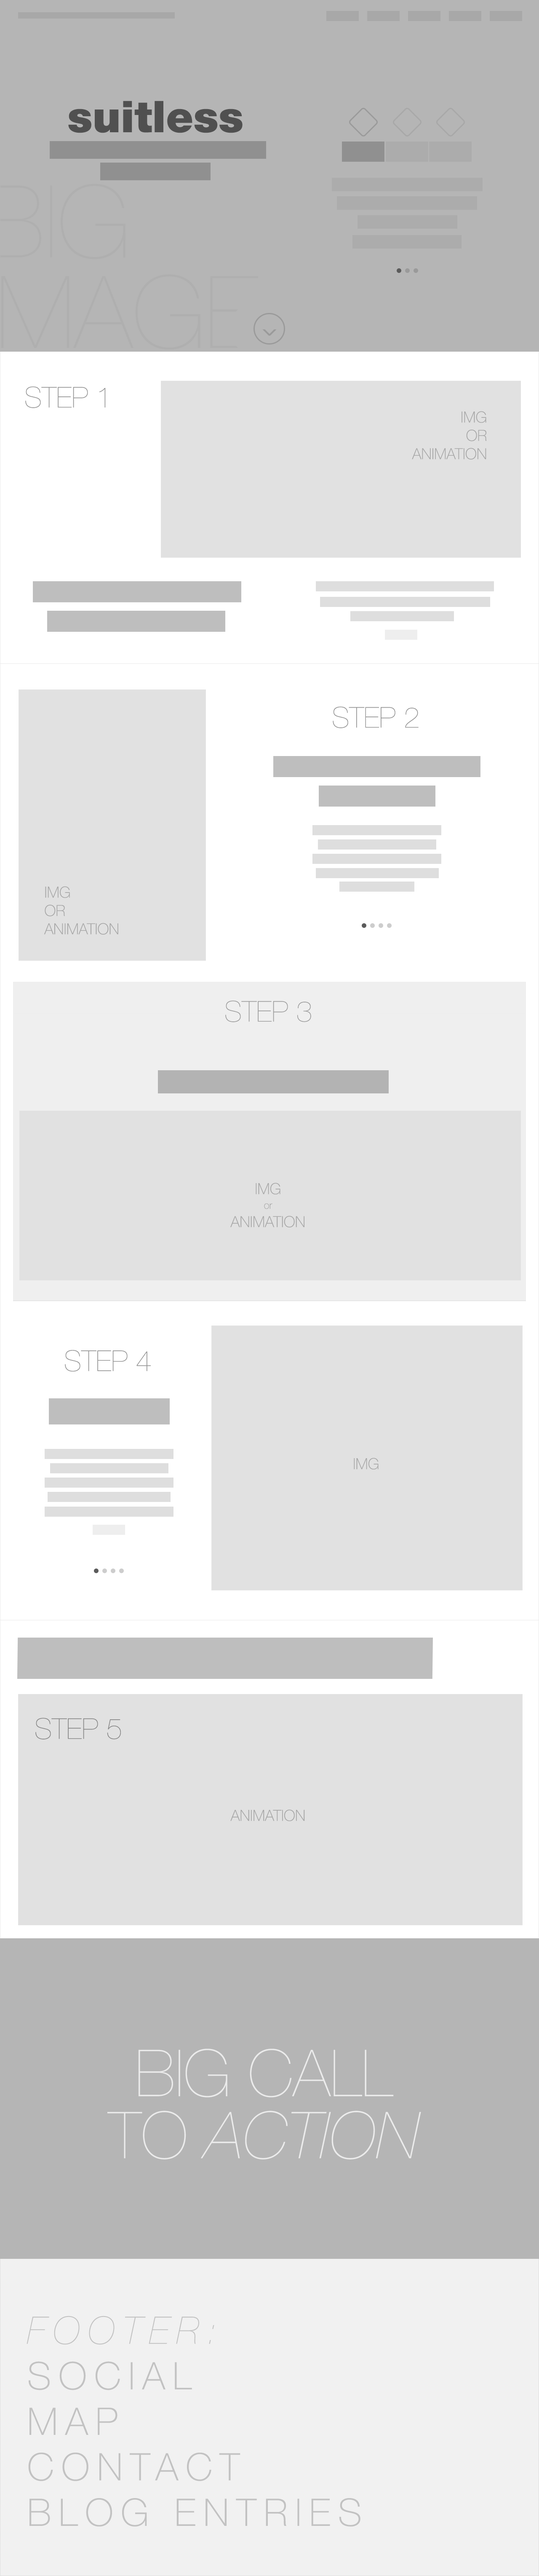
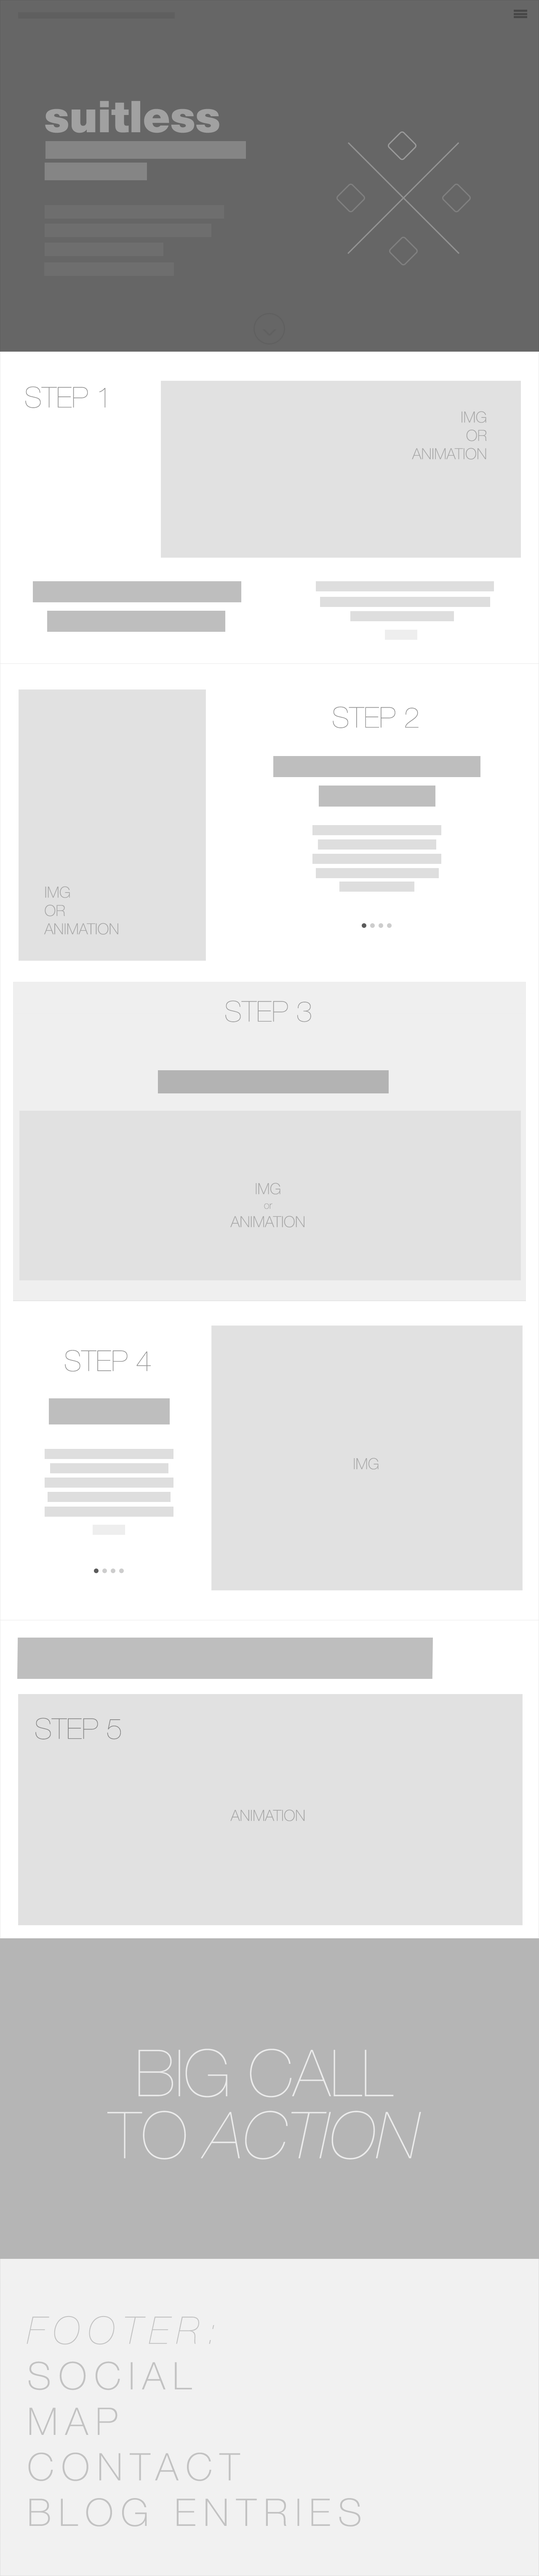
add nav slide

Changed region(s): [[0.0, 0.0, 1.0, 0.1561]]

diff --git a/app/assets/stylesheets/sliders.scss b/app/assets/stylesheets/sliders.scss
@@ -7,16 +7,7 @@
       overflow:auto;
     }
   }
-  .rsGCaption {
-    position: fixed;
-    top: 18px;
-    left:40px;
-    padding:2px;
-    z-index:130;
-    text-align:left;
-    text-transform:uppercase;
-    letter-spacing:2px;
-  }
+
 }
 .descriptive-flyout {
   position: fixed;
@@ -61,6 +52,9 @@
   .rsImg {
     display: block;
     margin: auto;
+    padding: 0 90px;
+    width:100%;
+    background-color:#333;
   }
 }
 .slider-nav {
@@ -72,7 +66,8 @@
   position:fixed;
   top:0;
   left:0;
-  background:#fff;
+  background:#000;
+  color:#eee;
   -webkit-transition: opacity 500ms;
   -moz-transition: opacity 500ms;
   transition: opacity 500ms;
@@ -80,16 +75,18 @@
     opacity:.8;
   }
   > span {
-    margin-left:10px;
+    margin-left:20px;
     float:right;
-    font-family:HelveticaNeueLTStd-Hv;
-    font-size:20px;
+    //font-family:HelveticaNeueLTStd-Hv;
+    //font-size:20px;
     cursor:pointer;
     text-align:right;
+    z-index: 10;
+    padding:2px;
+    text-transform:uppercase;
+    position: relative;
     &:hover {
       text-decoration:underline;
     }
-  }
-  .rsCaption {
   }
 }

diff --git a/app/assets/javascripts/slider.js b/app/assets/javascripts/slider.js
@@ -10,9 +10,13 @@ $( document ).ready(function(e) {
     //console.log(slideNum)
   });
   // close sliders
+  function destroyCaption() {
+    $(".rsGCaption").remove();
+  }
   $('body').on('click', '.button-close', function (e){
       e.preventDefault();
       $('.slider-nav, .image-slider, #slider-wrapper').fadeOut('slow');
+      destroyCaption();
   });
   
   ///////////// slide descrition flyout //////////////
@@ -39,8 +43,10 @@ $( document ).ready(function(e) {
   });
 });
 
-  
+///////////////// init slider ///////////////////
+
 function initSlider() {
+  
   var si = $('.royalSlider').royalSlider({
     controlNavigation:'none',
     imageScaleMode:'none',
@@ -54,6 +60,7 @@ function initSlider() {
     addActiveClass:true,
     startSlideId:slideNum, 
   }).data('royalSlider');
+  $('.rsGCaption').appendTo('.slider-nav');
 }
 
 initSlider();

diff --git a/app/assets/stylesheets/ui_and_ux.scss b/app/assets/stylesheets/ui_and_ux.scss
@@ -1,5 +1,16 @@
 body.ui_and_ux.design {
   //height:100%;
+  .rsGCaption {
+    position: fixed;
+    top: 18px;
+    left:40px;
+    padding:2px;
+    text-align:left;
+    text-transform:uppercase;
+    letter-spacing:2px;
+    color:#eee;
+
+  }
   #wrapper > h2 {
     font-family: HelveticaNeueLTStd-UltLt;
     font-size:64px;

diff --git a/app/assets/stylesheets/main.scss b/app/assets/stylesheets/main.scss
@@ -43,11 +43,7 @@ a {
   font-weight:bold;
 }
 
-.rsImg {
-  padding: 0 30px;
-  width:100%;
-  background-color:#656565;
-}
+
 
 .hidden {
   display:none;

diff --git a/config/routes.rb b/config/routes.rb
@@ -20,6 +20,7 @@ Rails.application.routes.draw do
   get 'design/ui_tax'
   get 'design/ui_hr'
   get 'design/ui_about'
+  get 'design/ui_navigation'
   get 'design/ui_pricing'
   get 'design/ui_home'
   get 'design/ui_blog'

diff --git a/app/controllers/design_controller.rb b/app/controllers/design_controller.rb
@@ -25,6 +25,10 @@ class DesignController < ApplicationController
     render :layout => false
   end
   
+  def ui_navigation
+    render :layout => false
+  end
+  
   def ui_tax
     render :layout => false
   end
